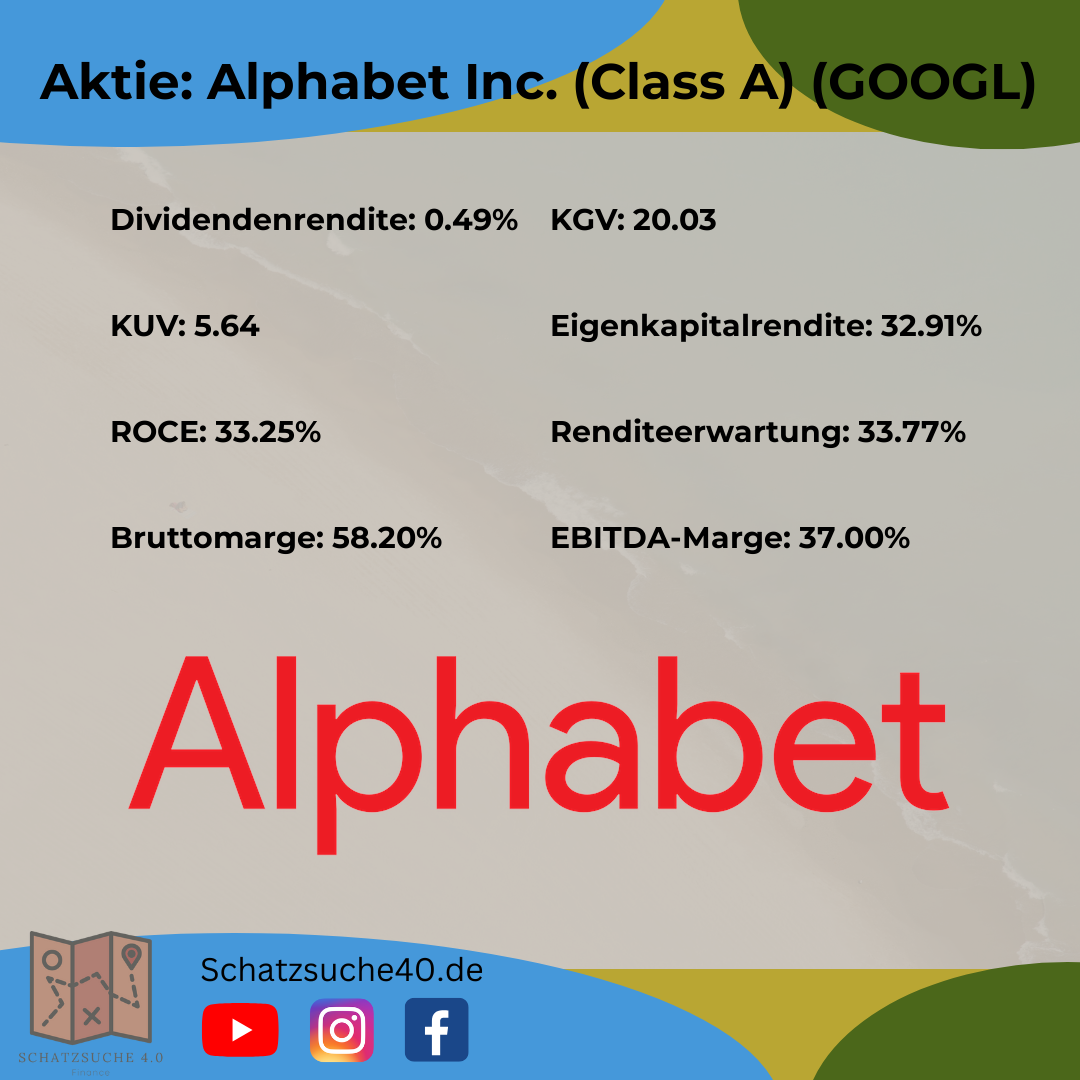
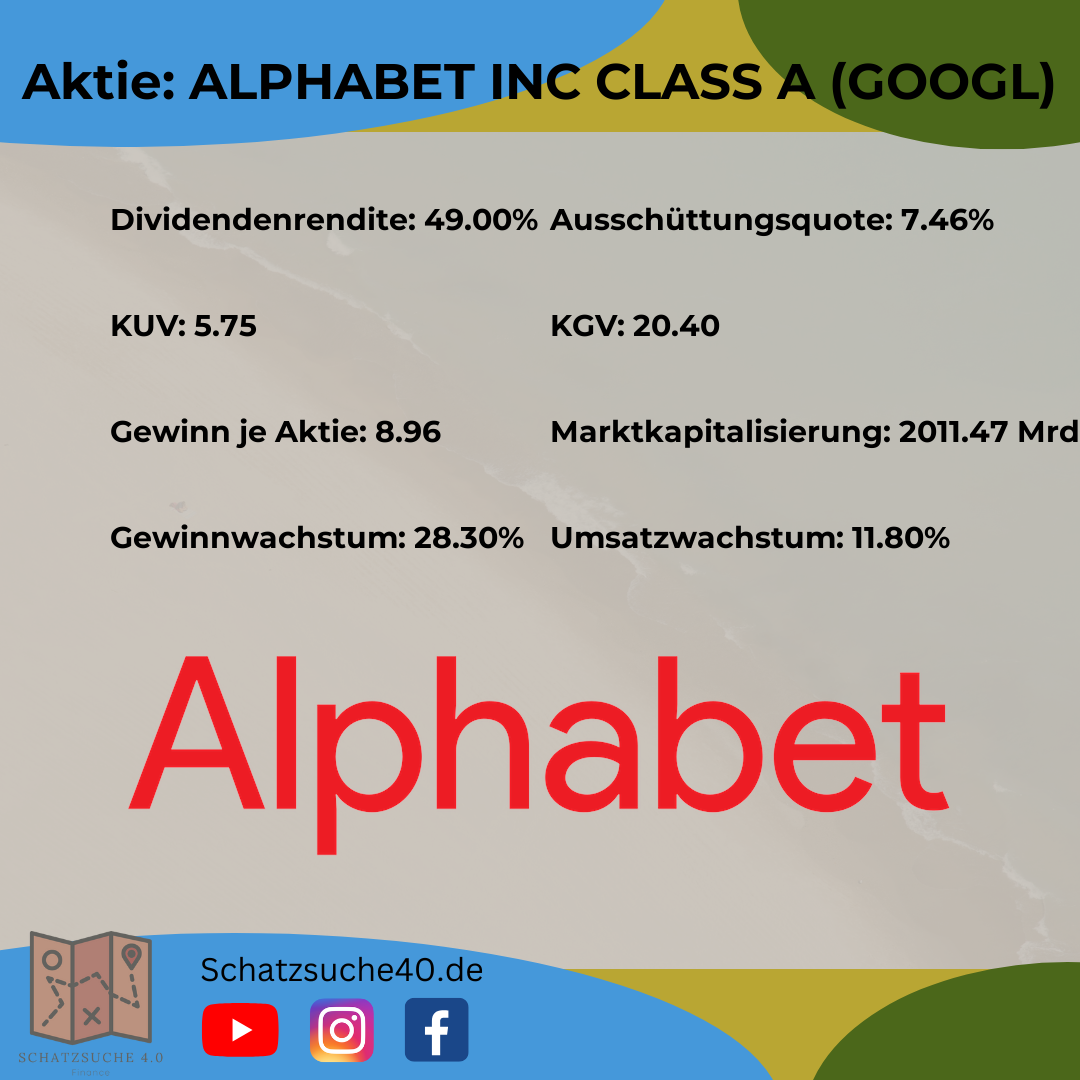
Automatischer Commit vom 31.03.2025

diff --git a/app.py b/app.py
@@ -111,10 +111,9 @@ def get_stock_data(ticker):
         data[col] = value if not pd.isna(value) else None
 
     # Beispielhafte Umrechnungen
-    if data["Dividendenrendite"] is not None and data["Dividendenrendite"] < 1:
-        data["Dividendenrendite"] *= 100
     if data["Ausschüttungsquote"] is not None and data["Ausschüttungsquote"] < 1:
         data["Ausschüttungsquote"] *= 100
+
     data["Marktkapitalisierung_Mrd"] = (
         data["Marktkapitalisierung"] / 1e9 if data["Marktkapitalisierung"] is not None else None
     )
